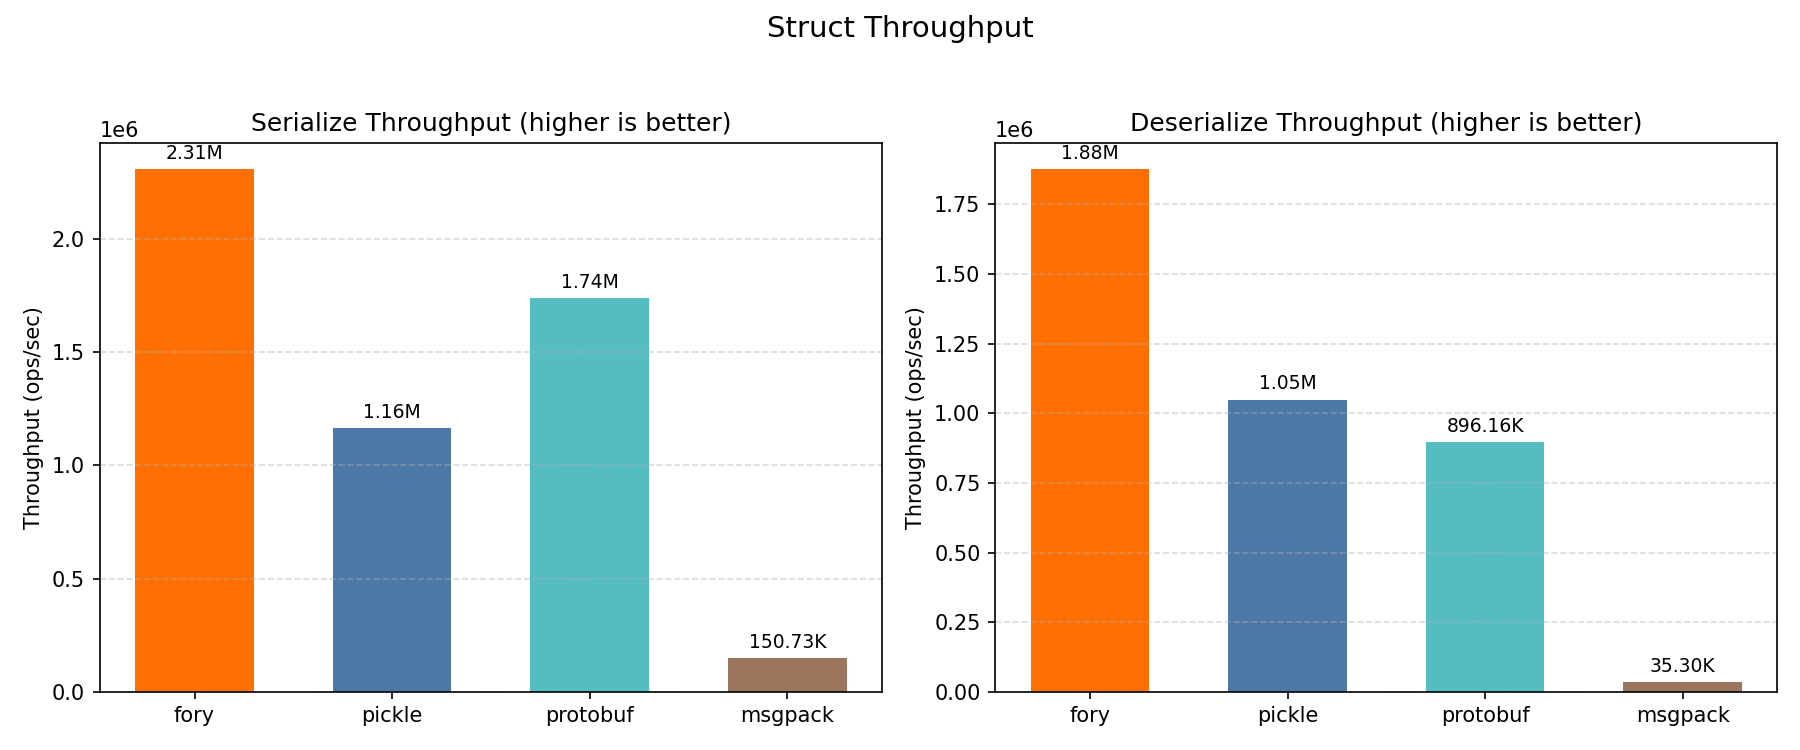
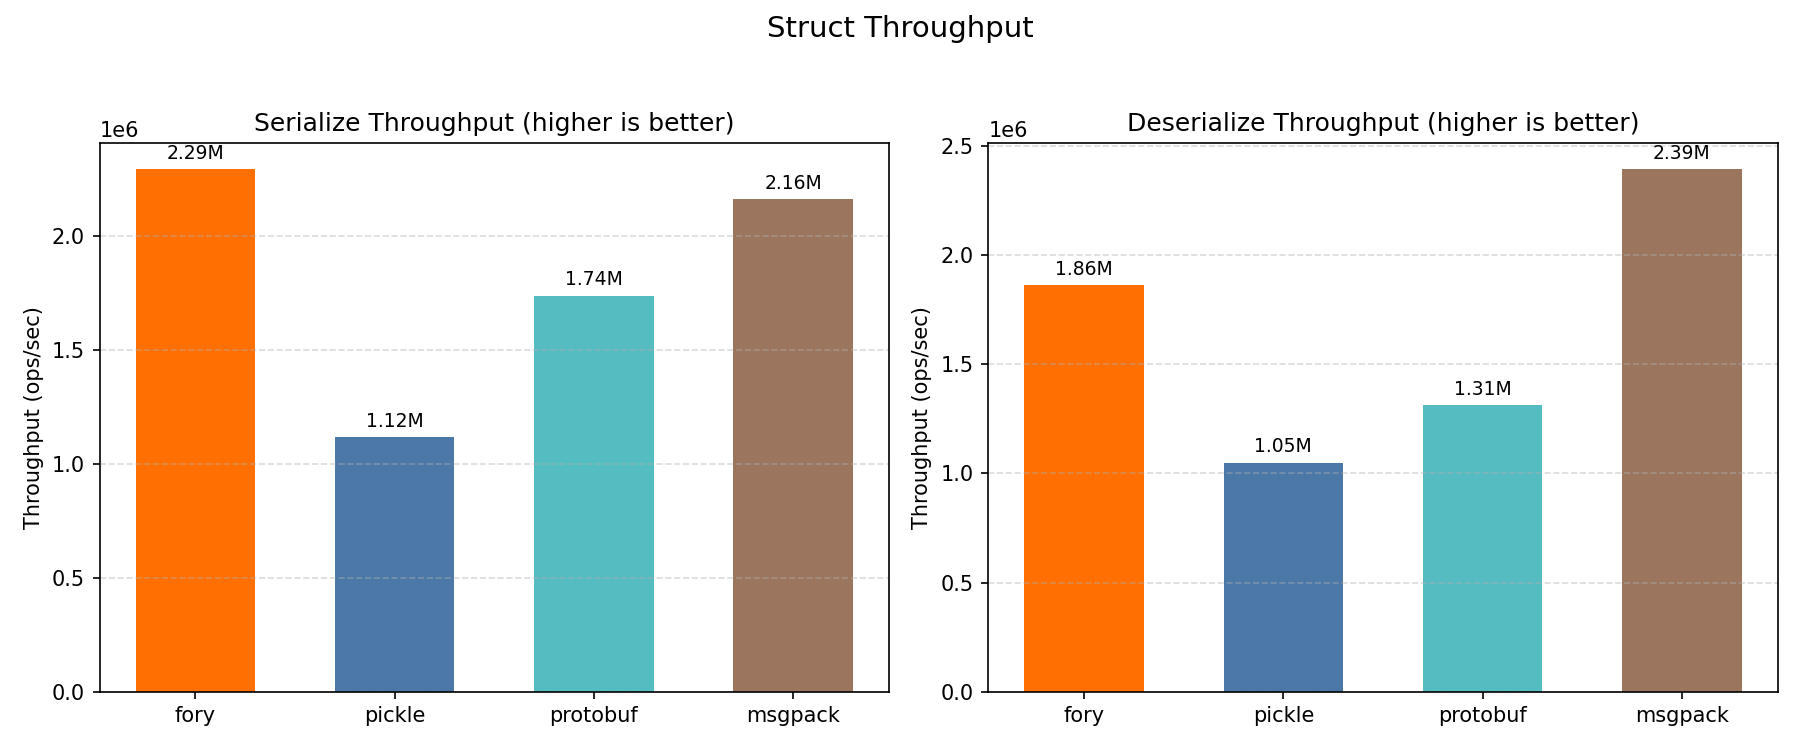
docs: refresh python benchmark report and plots

diff --git a/docs/benchmarks/python/README.md b/docs/benchmarks/python/README.md
@@ -1,6 +1,6 @@
 # Python Benchmark Performance Report
 
-_Generated on 2026-03-03 12:49:52_
+_Generated on 2026-03-03 13:02:52_
 
 ## How to Generate This Report
 
@@ -85,35 +85,35 @@ All plots show throughput (ops/sec); higher is better.
 
 | Datatype | Operation | fory (ns) | pickle (ns) | protobuf (ns) | msgpack (ns) | Fastest |
 |----------|-----------|-----------|-------------|---------------|--------------|---------|
-| Struct | Serialize | 433.4 | 859.7 | 575.5 | 6634.4 | fory |
-| Struct | Deserialize | 532.8 | 952.7 | 1115.9 | 28330.5 | fory |
-| Sample | Serialize | 836.1 | 1724.1 | 2557.2 | 52027.3 | fory |
-| Sample | Deserialize | 1630.5 | 2709.5 | 3957.1 | 118989.3 | fory |
-| MediaContent | Serialize | 1156.0 | 2854.2 | 2884.0 | 40650.8 | fory |
-| MediaContent | Deserialize | 1734.2 | 2887.0 | 3364.3 | 116956.4 | fory |
-| StructList | Serialize | 1071.1 | 2688.6 | 3469.5 | 53316.9 | fory |
-| StructList | Deserialize | 1622.1 | 2710.0 | 3699.4 | 156416.3 | fory |
-| SampleList | Serialize | 2880.7 | 5559.7 | 15140.4 | 412005.3 | fory |
-| SampleList | Deserialize | 5302.9 | 8296.2 | 20080.9 | 602338.4 | fory |
-| MediaContentList | Serialize | 3388.2 | 9311.5 | 16349.9 | 277963.2 | fory |
-| MediaContentList | Deserialize | 6193.9 | 8421.9 | 16842.6 | 590322.7 | fory |
+| Struct | Serialize | 436.2 | 895.5 | 575.3 | 462.8 | fory |
+| Struct | Deserialize | 536.8 | 953.0 | 761.7 | 417.8 | msgpack |
+| Sample | Serialize | 863.0 | 1791.5 | 2514.6 | 1534.2 | fory |
+| Sample | Deserialize | 1305.4 | 2320.1 | 3947.5 | 1606.9 | fory |
+| MediaContent | Serialize | 1163.5 | 2937.2 | 2973.8 | 1221.2 | fory |
+| MediaContent | Deserialize | 1798.4 | 2909.2 | 3481.2 | 1620.5 | msgpack |
+| StructList | Serialize | 1125.4 | 2852.6 | 3578.3 | 1448.7 | fory |
+| StructList | Deserialize | 1469.5 | 2667.7 | 3790.0 | 1791.1 | fory |
+| SampleList | Serialize | 2992.8 | 5633.1 | 15303.2 | 6482.0 | fory |
+| SampleList | Deserialize | 6015.3 | 8346.1 | 20112.7 | 8273.3 | fory |
+| MediaContentList | Serialize | 3490.1 | 9829.4 | 17044.7 | 5056.6 | fory |
+| MediaContentList | Deserialize | 6297.6 | 8481.2 | 17182.2 | 7649.3 | fory |
 
 ### Throughput Results (ops/sec)
 
 | Datatype | Operation | fory TPS | pickle TPS | protobuf TPS | msgpack TPS | Fastest |
 |----------|-----------|----------|------------|--------------|-------------|---------|
-| Struct | Serialize | 2,307,104 | 1,163,141 | 1,737,673 | 150,728 | fory |
-| Struct | Deserialize | 1,876,865 | 1,049,604 | 896,156 | 35,298 | fory |
-| Sample | Serialize | 1,195,980 | 580,007 | 391,046 | 19,221 | fory |
-| Sample | Deserialize | 613,306 | 369,076 | 252,710 | 8,404 | fory |
-| MediaContent | Serialize | 865,047 | 350,360 | 346,740 | 24,600 | fory |
-| MediaContent | Deserialize | 576,622 | 346,380 | 297,237 | 8,550 | fory |
-| StructList | Serialize | 933,577 | 371,947 | 288,226 | 18,756 | fory |
-| StructList | Deserialize | 616,498 | 369,005 | 270,317 | 6,393 | fory |
-| SampleList | Serialize | 347,133 | 179,864 | 66,048 | 2,427 | fory |
-| SampleList | Deserialize | 188,576 | 120,537 | 49,799 | 1,660 | fory |
-| MediaContentList | Serialize | 295,139 | 107,395 | 61,162 | 3,598 | fory |
-| MediaContentList | Deserialize | 161,450 | 118,738 | 59,373 | 1,694 | fory |
+| Struct | Serialize | 2,292,488 | 1,116,754 | 1,738,244 | 2,160,781 | fory |
+| Struct | Deserialize | 1,862,990 | 1,049,336 | 1,312,890 | 2,393,315 | msgpack |
+| Sample | Serialize | 1,158,735 | 558,207 | 397,674 | 651,801 | fory |
+| Sample | Deserialize | 766,038 | 431,015 | 253,323 | 622,315 | fory |
+| MediaContent | Serialize | 859,477 | 340,462 | 336,268 | 818,835 | fory |
+| MediaContent | Deserialize | 556,050 | 343,741 | 287,254 | 617,109 | msgpack |
+| StructList | Serialize | 888,557 | 350,555 | 279,466 | 690,283 | fory |
+| StructList | Deserialize | 680,506 | 374,859 | 263,850 | 558,323 | fory |
+| SampleList | Serialize | 334,133 | 177,523 | 65,346 | 154,273 | fory |
+| SampleList | Deserialize | 166,244 | 119,817 | 49,720 | 120,871 | fory |
+| MediaContentList | Serialize | 286,529 | 101,735 | 58,669 | 197,760 | fory |
+| MediaContentList | Deserialize | 158,790 | 117,908 | 58,200 | 130,731 | fory |
 
 ### Serialized Data Sizes (bytes)
 
